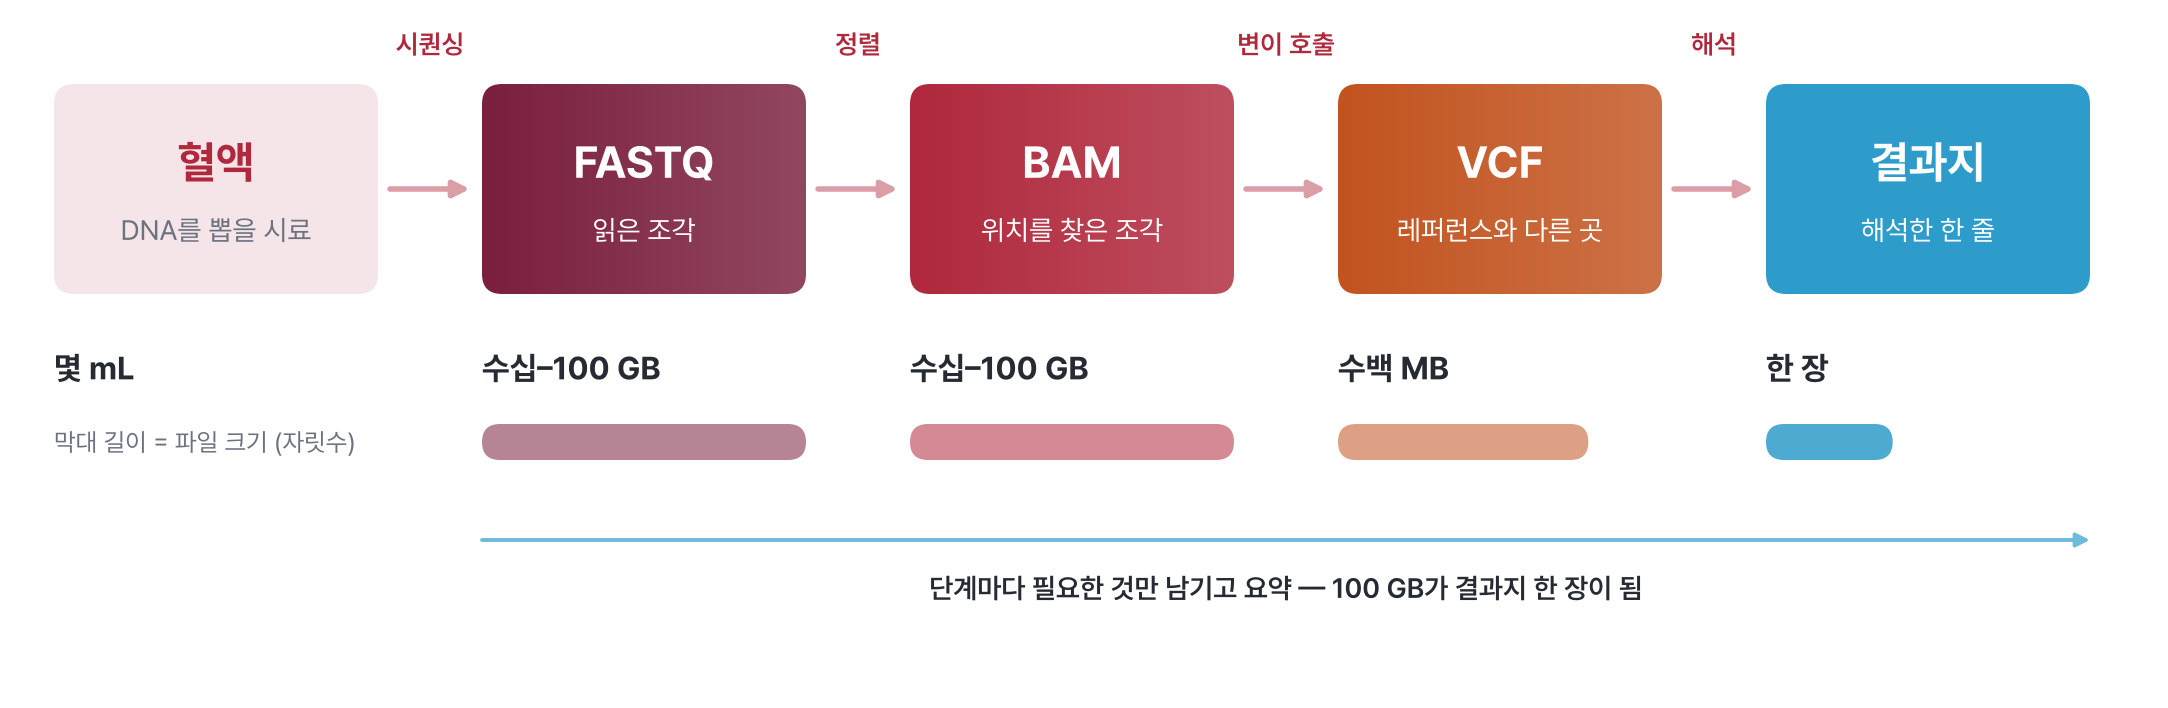
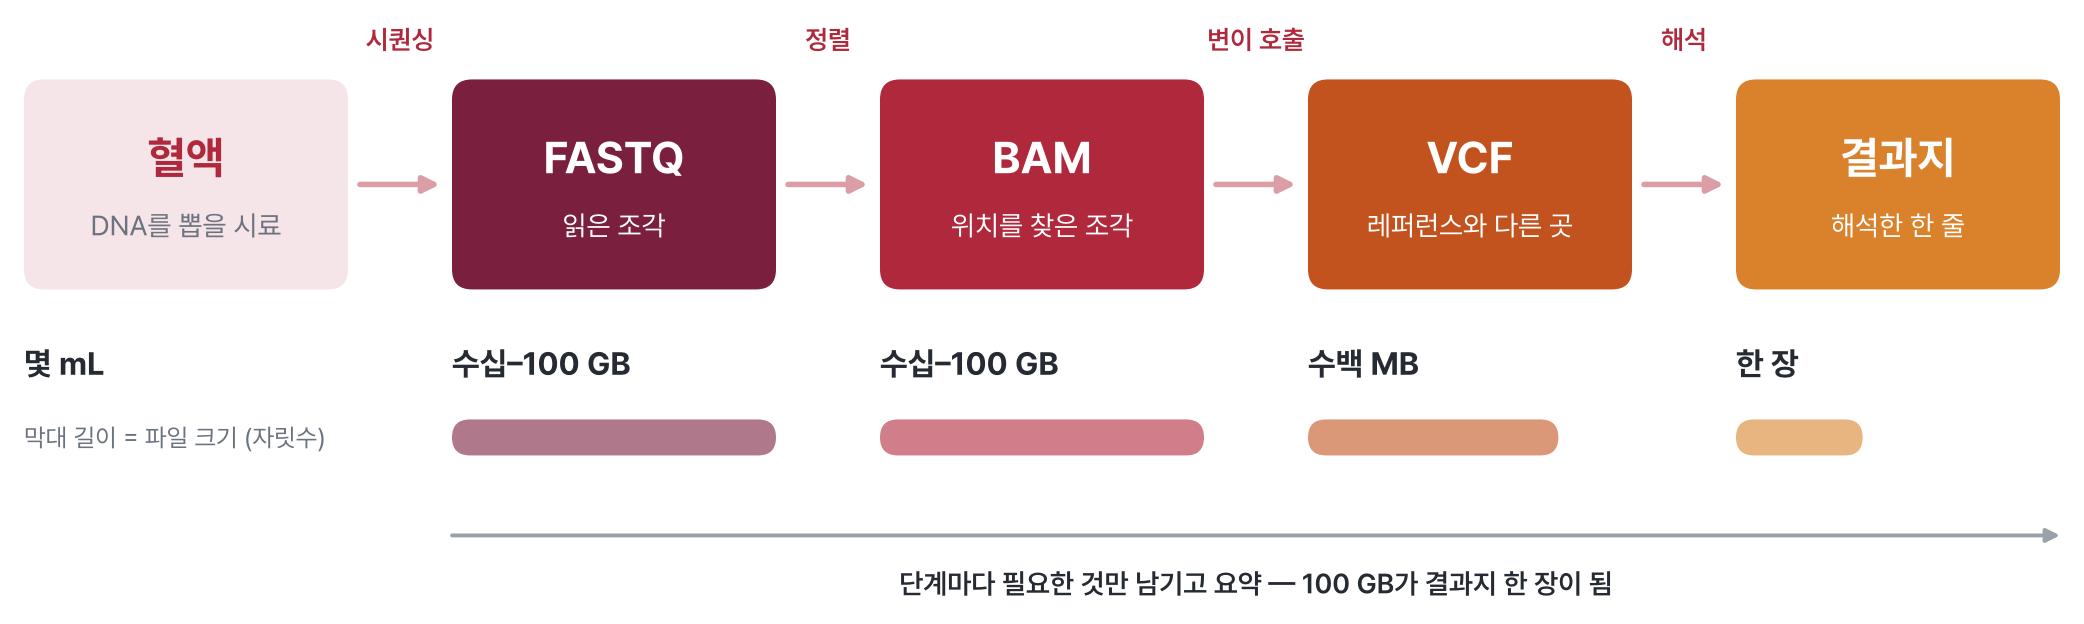
Use flat fills and warm categorical colours in concept figures
Per review: no gradient inside boxes; the gradient mode means more hues from
crimson to orange, used as solid colours. Parallel items get CAT/ramp colours,
and the blue accent marks at most one key point (none in the variant list).
Drawing-only figures are cropped to what is drawn.

Claude-Session: https://claude.ai/code/session_013CY8uBCr4DnGjUKSp6qsd8

diff --git a/scripts/figs/medfig.py b/scripts/figs/medfig.py
@@ -1,10 +1,15 @@
 """Shared look for the course's concept figures (scripts/figs/*.py → assets/img/wNN/*.png).
 
-Slide-gallery crimson in its gradient + rich mode (kkonoo.github.io/slide-gallery):
-wine → crimson → burnt-orange gradient for the main element, tints of those colours for
-the rest, and the gallery's blue accent for the one thing the reader should look at.
-Korean labels in Pretendard (install the OTFs in ~/.fonts). No titles — the caption in
-the chapter says what the figure shows.
+Slide-gallery crimson, gradient mode (kkonoo.github.io/slide-gallery) = more hues from the
+crimson → orange range, each used as a SOLID colour:
+- Fills are flat. No gradient inside a box.
+- Parallel items (a list of types, steps of a flow, groups) get different colours from
+  CAT / ramp(n) — never the accent.
+- BLUE (accent) marks at most one thing per figure, and only when the figure has a single
+  point the reader must not miss (the answer, the warning, the odd one out). Many figures
+  use no accent at all.
+- Korean labels in Pretendard (install the OTFs in ~/.fonts). No titles — the caption in
+  the chapter says what the figure shows.
 
 Coordinates are inches: new(w, h) gives an axis that runs 0..w and 0..h, so a box drawn
 1.0 wide is one inch wide on the page at 100% and text sizes stay predictable.
@@ -17,6 +22,9 @@ import matplotlib.patches as mp
 from matplotlib import font_manager as fm
 from matplotlib.colors import LinearSegmentedColormap
 import numpy as np
+import logging
+from matplotlib.transforms import Bbox
+logging.getLogger("matplotlib.font_manager").setLevel(logging.ERROR)
 
 for f in glob.glob(os.path.expanduser("~/.fonts/Pretendard-*.otf")):
     fm.fontManager.addfont(f)
@@ -30,8 +38,9 @@ plt.rcParams.update({
 })
 
 # ── colours ────────────────────────────────────────────────────────────────
-WINE, CRIMSON, ORANGE = "#7A1F3D", "#B0283C", "#C2531F"   # gradient stops
-BLUE = "#2E9CCA"                                          # accent: one look-here per figure
+WINE, CRIMSON, ORANGE, AMBER = "#7A1F3D", "#B0283C", "#C2531F", "#D9822B"
+CAT = [CRIMSON, ORANGE, WINE, AMBER]          # parallel items, in this order
+BLUE = "#2E9CCA"                              # accent: at most one look-here per figure
 TEXT, TEXT2, LINE, FAINT = "#262B33", "#6B7280", "#E2E5EA", "#F5F6F8"
 
 def mix(c, a):
@@ -39,10 +48,10 @@ def mix(c, a):
     c = np.array([int(c[i:i + 2], 16) for i in (1, 3, 5)])
     return "#%02X%02X%02X" % tuple((255 + (c - 255) * a).round().astype(int))
 
-GRAD = LinearSegmentedColormap.from_list("medgrad", [WINE, CRIMSON, ORANGE])
+GRAD = LinearSegmentedColormap.from_list("medgrad", [WINE, CRIMSON, ORANGE, AMBER])
 
 def ramp(n):
-    """n colours along the wine → crimson → orange gradient (for steps 1..n)."""
+    """n solid colours along wine → crimson → orange → amber (for ordered steps 1..n)."""
     return [matplotlib.colors.to_hex(GRAD(i / max(n - 1, 1))) for i in range(n)]
 
 # ── canvas ─────────────────────────────────────────────────────────────────
@@ -53,8 +62,16 @@ def new(w, h):
     return fig, ax
 
 def save(fig, path):
+    """PNG at 200 dpi. A drawing-only figure (all axes off) is cropped to what is drawn."""
     os.makedirs(os.path.dirname(path), exist_ok=True)
-    fig.savefig(path, dpi=200, bbox_inches="tight", pad_inches=0.12)
+    bbox = "tight"
+    if not any(a.axison for a in fig.axes):
+        r = fig.canvas.get_renderer()
+        arts = [x for a in fig.axes for x in a.texts + a.patches + a.images + a.lines + a.collections
+                if x.get_visible()]
+        bb = Bbox.union([x.get_window_extent(r) for x in arts])
+        bbox = bb.transformed(fig.dpi_scale_trans.inverted()).padded(0.12)
+    fig.savefig(path, dpi=200, bbox_inches=bbox, pad_inches=0.12)
     plt.close(fig)
     print("saved", path)
 
@@ -64,17 +81,6 @@ def box(ax, x, y, w, h, fc="white", ec=LINE, lw=1.0, r=0.08, z=2, ls="-"):
     p = mp.FancyBboxPatch((x, y), w, h, boxstyle=f"round,pad=0,rounding_size={r}",
                           fc=fc, ec=ec, lw=lw, zorder=z, ls=ls)
     ax.add_patch(p)
-    return p
-
-def gradbox(ax, x, y, w, h, colors=(WINE, CRIMSON, ORANGE), r=0.08, z=2, vertical=False):
-    """Rounded box filled with a left→right (or bottom→top) gradient."""
-    p = box(ax, x, y, w, h, fc="none", ec="none", r=r, z=z)
-    cmap = LinearSegmentedColormap.from_list("g", list(colors))
-    g = np.linspace(0, 1, 256)
-    g = g[:, None] if vertical else g[None, :]
-    im = ax.imshow(g, cmap=cmap, extent=(x, x + w, y, y + h), origin="lower",
-                   aspect="auto", zorder=z, interpolation="bicubic")
-    im.set_clip_path(p)
     return p
 
 def chevron(ax, x, y, w, h, fc, tip=0.18, first=False, z=2):

diff --git a/scripts/figs/w04_prs_overlap.py b/scripts/figs/w04_prs_overlap.py
@@ -19,24 +19,23 @@ a1.text(-2.6, 0.30, "대조군", color="#4B5563", fontsize=12, fontweight="bold"
 a1.text(2.5, 0.30, "환자군", color=CRIMSON, fontsize=12, fontweight="bold", ha="center")
 a1.text(0.02, 0.97, "① 점수 분포", transform=a1.transAxes, fontsize=11, fontweight="bold", color=TEXT, va="top")
 a1.annotate("대부분의 환자와\n대조군은 점수만으로\n구별되지 않음", xy=(0.9, 0.2), xytext=(2.4, 0.2),
-            fontsize=10, color=TEXT, ha="left", va="center", linespacing=1.4,
+            fontsize=10.5, fontweight="bold", color=BLUE, ha="left", va="center", linespacing=1.4,
             arrowprops=dict(arrowstyle="-|>", color=BLUE, lw=1.4, connectionstyle="arc3,rad=0.25"))
 a1.text(0.98, 0.97, f"AUC {auc:.2f}\n평균 차이 {d:.2f} SD", transform=a1.transAxes, ha="right", va="top",
         fontsize=10, color=TEXT, linespacing=1.6,
-        bbox=dict(boxstyle="round,pad=0.45", fc=mix(BLUE, 0.08), ec=mix(BLUE, 0.4)))
+        bbox=dict(boxstyle="round,pad=0.45", fc=FAINT, ec=LINE))
 a1.set_ylim(0, 0.47)
 
 dec = np.arange(1, 11)
 z = np.array([nd.inv_cdf((k - 0.5) / 10) for k in dec])
 orr = np.exp(d * z); orr = orr / orr[4]
 cols = [mix(CRIMSON, 0.25 + 0.06 * i) for i in range(9)] + [ORANGE]
-cols[0] = BLUE
 a2.bar(dec, orr, color=cols, width=0.72)
 a2.axhline(1, color="#9AA1AB", lw=1.1, ls="--")
 a2.set_xticks(dec); a2.set_xlabel("PRS 10분위 (1 = 가장 낮음)", fontsize=11)
 a2.set_ylabel("오즈비 (가운데 5분위 대비)", fontsize=11)
 a2.text(10, orr[-1] + 0.07, f"{orr[-1]:.1f}배", ha="center", fontsize=11, fontweight="bold", color=ORANGE)
-a2.text(1, orr[0] + 0.07, f"{orr[0]:.1f}배", ha="center", fontsize=11, fontweight="bold", color=BLUE)
+a2.text(1, orr[0] + 0.07, f"{orr[0]:.1f}배", ha="center", fontsize=11, fontweight="bold", color=CRIMSON)
 a2.annotate("", xy=(1, orr[0] + 0.28), xytext=(10, orr[-1] + 0.35),
             arrowprops=dict(arrowstyle="<|-|>", color="#6B7280", lw=1.2, connectionstyle="arc3,rad=0.18"))
 a2.text(5.3, orr[-1] * 1.2, f"최상위 vs 최하위 {orr[-1] / orr[0]:.1f}배", ha="center", fontsize=10.5, color=TEXT)

diff --git a/scripts/figs/w02_small_variants.py b/scripts/figs/w02_small_variants.py
@@ -4,10 +4,10 @@ from medfig import *
 ref = "ACGTTGCATGCAGTTACG"
 rows = [
     ("레퍼런스", list(ref), {}, ""),
-    ("SNV", list(ref[:11] + "T" + ref[12:]), {11: ("fill", CRIMSON)}, "염기 1개가 바뀜"),
-    ("삽입", list(ref[:13] + "TTA" + ref[13:]), {13: ("fill", ORANGE), 14: ("fill", ORANGE), 15: ("fill", ORANGE)},
+    ("SNV", list(ref[:11] + "T" + ref[12:]), {11: ("fill", CAT[0])}, "염기 1개가 바뀜"),
+    ("삽입", list(ref[:13] + "TTA" + ref[13:]), {13: ("fill", CAT[1]), 14: ("fill", CAT[1]), 15: ("fill", CAT[1])},
      "염기 3개가 들어감"),
-    ("결실", list(ref[:9]) + [None] * 3 + list(ref[12:]), {9: ("gap", BLUE), 10: ("gap", BLUE), 11: ("gap", BLUE)},
+    ("결실", list(ref[:9]) + [None] * 3 + list(ref[12:]), {9: ("gap", CAT[2]), 10: ("gap", CAT[2]), 11: ("gap", CAT[2])},
      "염기 3개가 빠짐"),
 ]
 cw, ch, x0 = 0.34, 0.42, 1.55
@@ -15,7 +15,7 @@ fig, ax = new(x0 + 21 * cw + 2.1, 3.1)
 for r, (name, seq, marks, note) in enumerate(rows):
     y = 2.55 - r * 0.78
     label(ax, x0 - 0.25, y, name, fs=12.5, w="bold", ha="right",
-          c=TEXT if r == 0 else [CRIMSON, ORANGE, BLUE][r - 1])
+          c=TEXT if r == 0 else CAT[r - 1])
     for i, b in enumerate(seq):
         x = x0 + i * cw
         kind, col = marks.get(i, (None, None))
@@ -23,7 +23,7 @@ for r, (name, seq, marks, note) in enumerate(rows):
             box(ax, x + 0.02, y - ch / 2, cw - 0.04, ch, fc=col, ec="none", r=0.05)
             label(ax, x + cw / 2, y, b, fs=12, w="bold", c="white")
         elif kind == "gap":
-            box(ax, x + 0.02, y - ch / 2, cw - 0.04, ch, fc=mix(BLUE, 0.08), ec=BLUE, lw=1.3, r=0.05, ls=(0, (3, 2)))
+            box(ax, x + 0.02, y - ch / 2, cw - 0.04, ch, fc=mix(CAT[2], 0.08), ec=CAT[2], lw=1.3, r=0.05, ls=(0, (3, 2)))
         else:
             box(ax, x + 0.02, y - ch / 2, cw - 0.04, ch, fc=FAINT, ec="none", r=0.05)
             label(ax, x + cw / 2, y, b, fs=12, c="#4B5563")

diff --git a/scripts/figs/w01_data_journey.py b/scripts/figs/w01_data_journey.py
@@ -10,14 +10,11 @@ stages = [  # name, sub, size text, log10 bytes (for the bar)
     ("결과지", "해석한 한 줄", "한 장", 4.3),
 ]
 steps = ["시퀀싱", "정렬", "변이 호출", "해석"]
-fills = [mix(CRIMSON, 0.12)] + ramp(3) + [BLUE]
+fills = [mix(CRIMSON, 0.12)] + ramp(4)
 W, H, gap, x0, y0 = 1.62, 1.05, 0.52, 0.15, 1.95
 for i, (name, sub, size, lb) in enumerate(stages):
     x = x0 + i * (W + gap)
-    if 1 <= i <= 3:
-        gradbox(ax, x, y0, W, H, colors=(fills[i], mix(fills[i], 0.82)), r=0.1)
-    else:
-        box(ax, x, y0, W, H, fc=fills[i], ec="none", r=0.1)
+    box(ax, x, y0, W, H, fc=fills[i], ec="none", r=0.1)
     tc = TEXT if i == 0 else "white"
     label(ax, x + W / 2, y0 + 0.66, name, fs=16, w="bold", c=CRIMSON if i == 0 else tc)
     label(ax, x + W / 2, y0 + 0.32, sub, fs=10, c=TEXT2 if i == 0 else tc)
@@ -28,12 +25,12 @@ for i, (name, sub, size, lb) in enumerate(stages):
     # size: a bar whose length follows log10(bytes)
     if lb:
         bw = W * lb / 11.0
-        box(ax, x, 1.12, bw, 0.18, fc=mix(fills[i], 0.55 if i < 4 else 0.85), ec="none", r=0.09)
+        box(ax, x, 1.12, bw, 0.18, fc=mix(fills[i], 0.6), ec="none", r=0.09)
     label(ax, x, 1.58, size, fs=11.5, w="bold", c=TEXT, ha="left")
 
 label(ax, x0, 1.21, "막대 길이 = 파일 크기 (자릿수)", fs=9, c=TEXT2, ha="left")
 x1, x2 = x0 + 1 * (W + gap), x0 + 4 * (W + gap) + W
-arrow(ax, x1, 0.72, x2, 0.72, color=mix(BLUE, 0.7), lw=1.4, ms=10)
+arrow(ax, x1, 0.72, x2, 0.72, color="#9AA1AB", lw=1.4, ms=10)
 label(ax, (x1 + x2) / 2, 0.48, "단계마다 필요한 것만 남기고 요약 — 100 GB가 결과지 한 장이 됨",
       fs=10, w="semibold", c=TEXT)
 save(fig, "../../assets/img/w01/data_journey.png")
